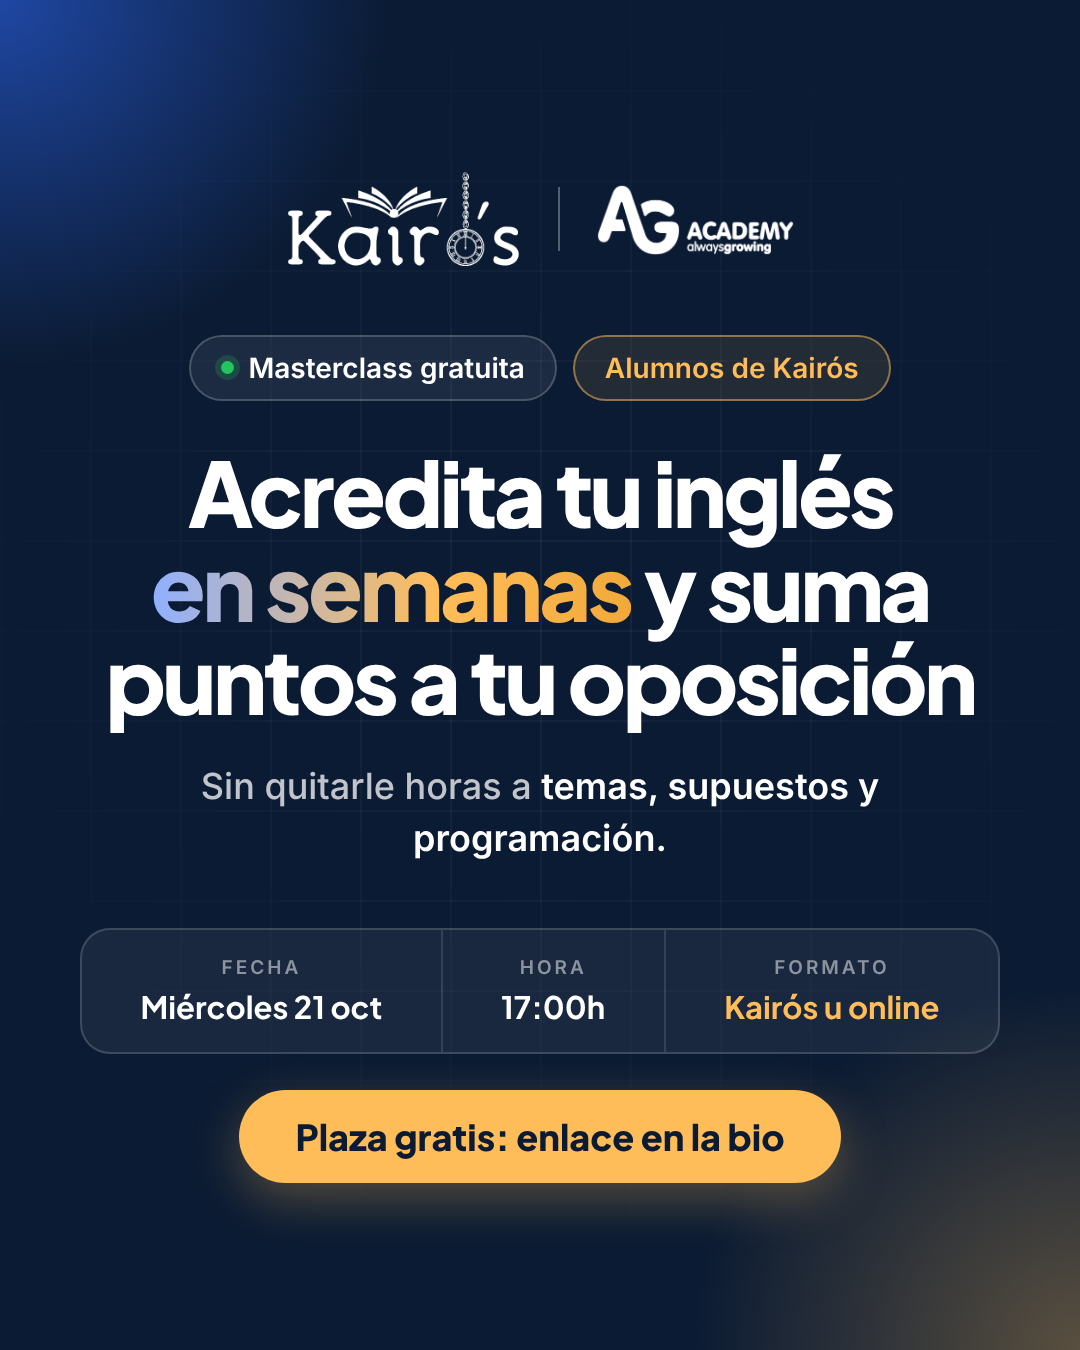
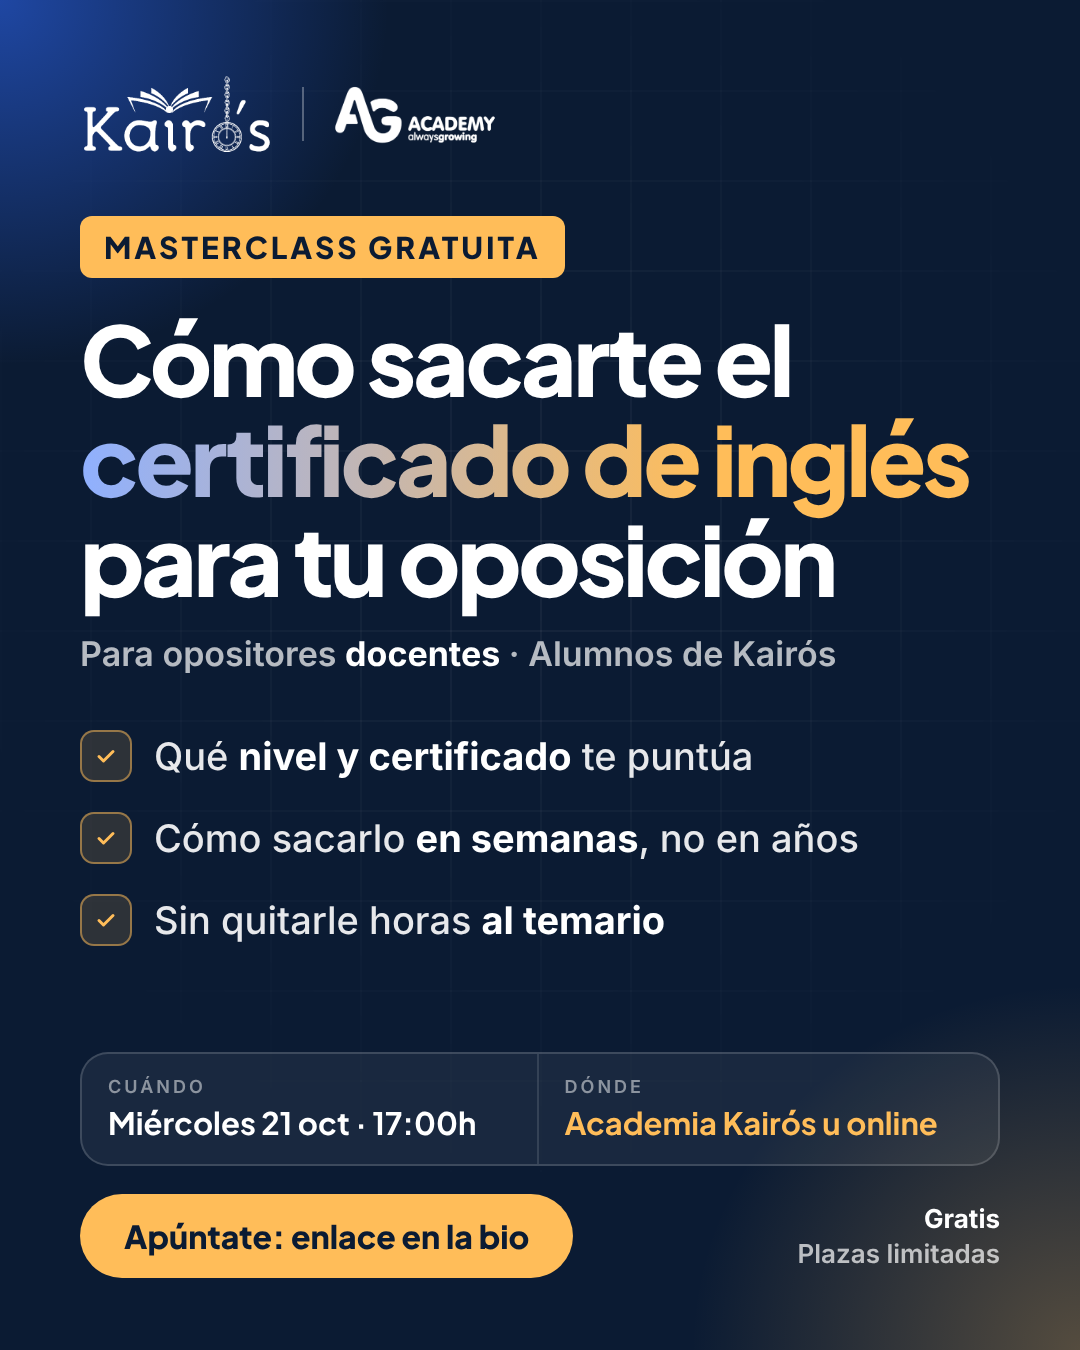
Kairós: post de Instagram más claro e informativo + nuevo copy
Claude-Session: https://claude.ai/code/session_01K3kACsC7VJzSCraEBbfL27

diff --git a/landings/kairos/difusion/textos-difusion.md b/landings/kairos/difusion/textos-difusion.md
@@ -61,21 +61,27 @@ Miércoles 21 · 17:00h. Masterclass gratis sobre el certificado de inglés para
 
 ---
 
-## 3. Instagram — post de feed (instagram-post-kairos.png)
+## 3. Instagram — post de feed (instagram-post-kairos-sin-foto.png)
 
-Temas, supuestos, programación… y el inglés siempre para "luego".
+🎓 MASTERCLASS GRATUITA para opositores docentes
 
-Pero ese certificado son puntos en el baremo. Puntos que muchos opositores se dejan por el camino.
+¿Te falta el certificado de inglés para tu oposición? Este miércoles te contamos cómo sacarlo.
 
-El miércoles 21 de octubre a las 17:00h hacemos una masterclass gratuita con @agacademyaptis para contarte cómo acreditar tu inglés en semanas, sin quitarle horas a la oposición.
+📅 Miércoles 21 de octubre
+🕔 17:00h
+📍 En la academia Kairós o online por Zoom
+💸 Gratis · Solo para alumnos de Kairós
 
-📍 Aquí en la academia o desde casa
-🎟 Exclusiva para alumnos de Kairós
-⏳ Plazas presenciales limitadas
+Lo que vas a ver:
+✅ Qué nivel y qué certificado de inglés te puntúa en el baremo
+✅ Por qué el APTIS es la forma más rápida de sacarlo
+✅ Cómo prepararlo en semanas sin quitarle horas al temario
 
-Reserva tu sitio en el enlace de la bio 🔗
+La imparte Jesu, fundador de @agacademyaptis, que ya ha ayudado a más de 6.000 alumnos a sacar su certificado (94% de aprobados).
 
-#oposiciones #oposicionesdocentes #opositores #maestros #profesores #inglés #certificadodeingles #aptis #baremo #kairos
+Las plazas presenciales son limitadas. Apúntate gratis en el enlace de la bio 🔗
+
+#oposiciones #oposicionesdocentes #opositores #maestros #profesores #certificadodeingles #aptis #baremo #kairos
 
 (Revisar que @agacademyaptis es el usuario correcto antes de publicar)
 
